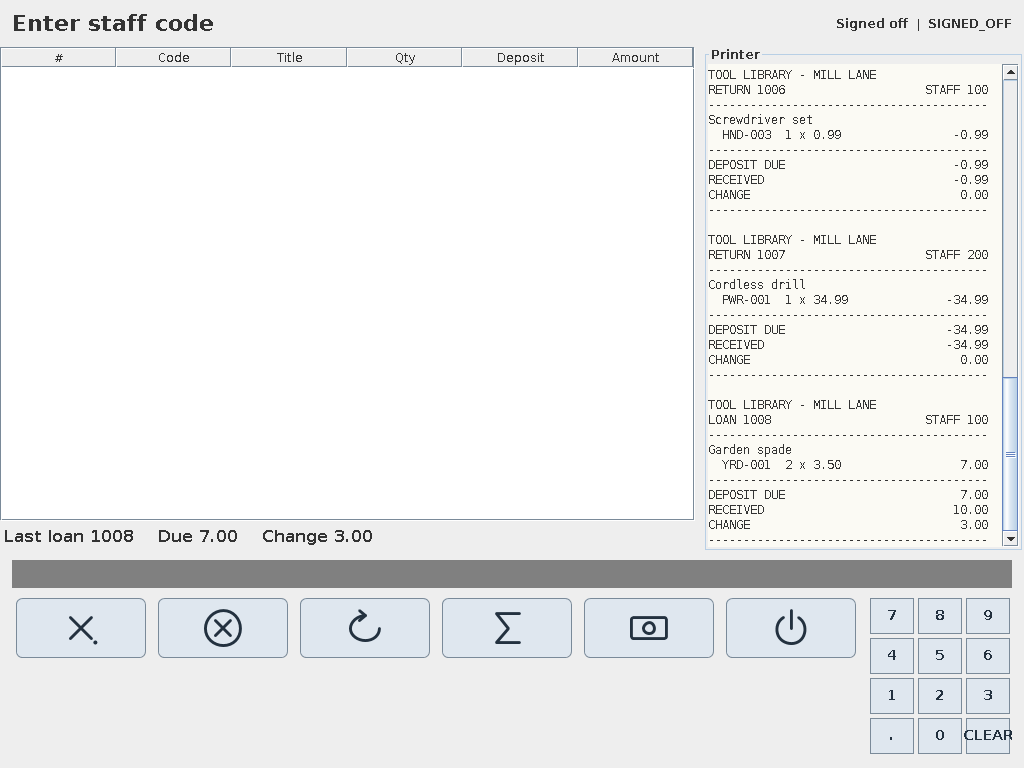
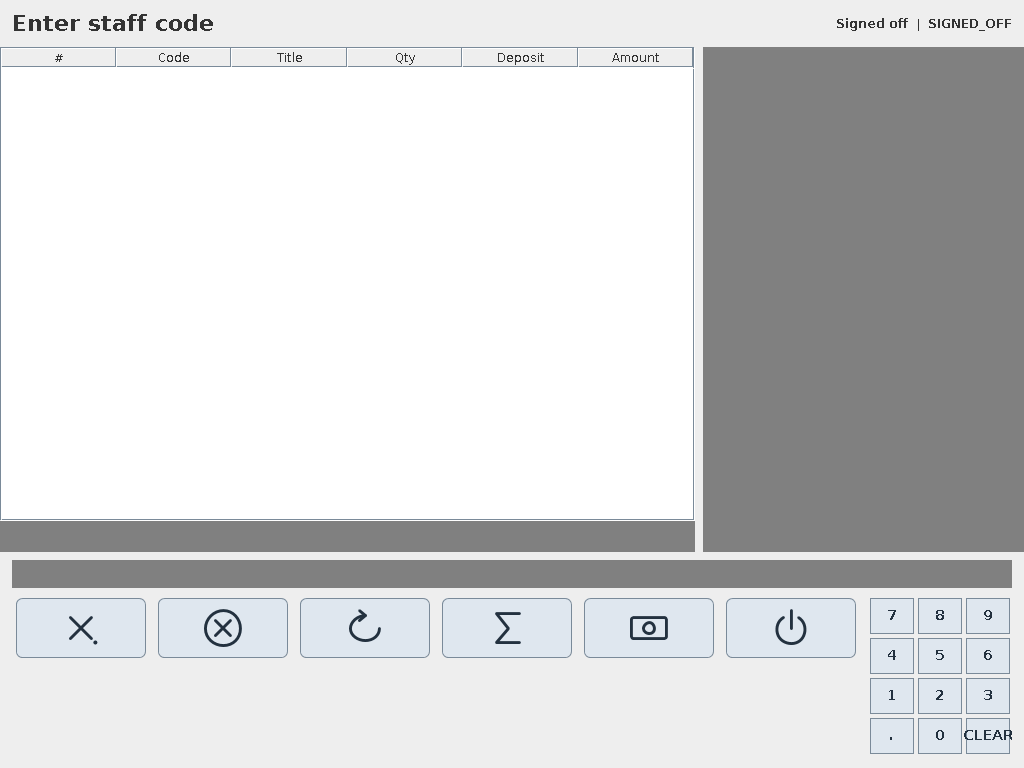
Phase 7 VS, step 2b: keypad-frame masks the totals line and the printer's slips
The glue replays keypad-image on a used desk, where the totals line and the slip panel differ
from the fresh desk the baselines were approved on (about 11 700 pixels on both Javas). The
frame now masks the entry field, the totals line and the printer's scroll pane by locator, and
its baselines are approved afresh on the Java 25 and the Java 8 target, both seeds, so every
entry records the three masks. The keypad baselines are unchanged. The plan, its shape pin and
a contract note (12.4, as built) follow.

Changed region(s): [[0.0, 0.0625, 1.0, 0.7188]]

diff --git a/samples/skillroy-sample-lending-scenarios/src/test/java/ai/skillroy/testjava/samples/lending/scenarios/PlansUpToDateTest.java b/samples/skillroy-sample-lending-scenarios/src/test/java/ai/skillroy/testjava/samples/lending/scenarios/PlansUpToDateTest.java
@@ -239,7 +239,9 @@ class PlansUpToDateTest {
         assertEquals(Map.of("by", Map.of("id", "numberPad"), "redact", true), keypad.args());
         ImageCheck frame = (ImageCheck) image.steps().get(1).expect().get(0);
         assertEquals("keypad-frame", frame.label());
-        assertEquals(List.of(Map.of("by", Map.of("id", "entry"))), frame.masks(), "masked by locator");
+        // step 2b (VS): the totals line and the printer's slips are masked too, so the frame holds on any signed-off desk
+        assertEquals(List.of(Map.of("by", Map.of("id", "entry")), Map.of("by", Map.of("id", "totalsLine")),
+                Map.of("by", Map.of("name", "Printer", "role", "scrollpane"))), frame.masks(), "masked by locator");
         assertEquals(0, frame.maxDiffPixels());
     }
 

diff --git a/docs/design/phase7-contracts.md b/docs/design/phase7-contracts.md
@@ -2056,6 +2056,15 @@ after the deposit the loan is posted, so "two lines … " after `basic-loan`'s l
 the rest of `basic-loan`'s steps follow it. `vision-live-only` and `loan-table-visual-check` carry `launchProperties:
 {lending.seed: A}` with `basic-loan`'s fixtures; none of the three seed-A scenarios has a bindings file.
 
+**As built (Phase 7, VS, step 2b):** `keypad-frame` masks three locators, not one: `{by: {id: entry}}`,
+`{by: {id: totalsLine}}` and `{by: {name: Printer, role: scrollpane}}` (D-VS-21). The frame is approved on a fresh
+desk (`ResolutionChecks`, per seed) but also replays in the glue after earlier scenarios on a used desk, where the totals
+line and the printer's slips differ (about 11 700 pixels on both Javas); masking them keeps the frame's check on the
+desk's layout and static parts on any signed-off desk. The locator form of `mask` is exercised as before; the `keypad`
+baselines are unchanged, and `keypad-frame`'s were approved afresh on both Javas and seeds, so each entry records the
+three masks' rectangles (a compare masks the union of an entry's recorded masks and the step's resolved ones, so an
+entry approved under one mask would still have passed, but would have recorded less than its plan says).
+
 ### 12.5 Regenerated committed artifacts
 
 One regeneration, by the build, of: every plan (`planVersion` 6, `packVersion` 0.6.0) and bindings file (`planHash`)
